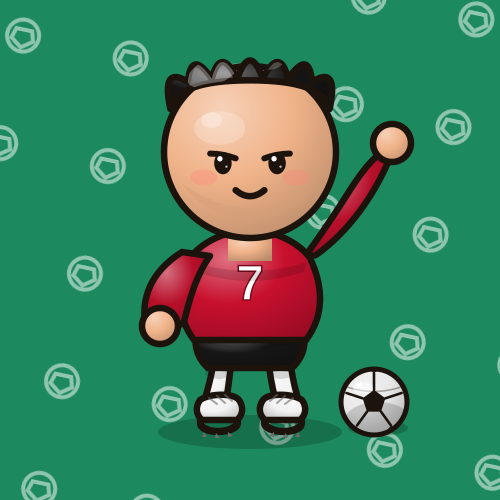
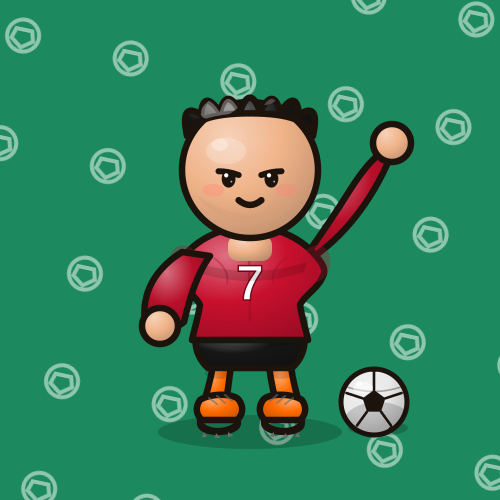
Smaller head, athletic torso taper, bright boot colors
Head radius down further (86 -> 68) via the same scale-transform
approach. Torso rebuilt with a shoulder-chest-waist-hem taper (wider
shoulders, pulled-in waist, slight hem flare) plus subtle deltoid
shading and center/pec lines for definition, instead of a straight-sided
blob. Boots switched to a bright example color to confirm the
fixed-light-sole design contrasts well against vivid uppers, not just
dark ones.

Claude-Session: https://claude.ai/code/session_01Wjr7xw4tsDooQQs84PxUTw

diff --git a/nft-collection/chibi-spin/character.js b/nft-collection/chibi-spin/character.js
@@ -16,8 +16,8 @@ const HEAD_CY = 142;
 const HEAD_R = 108;
 
 // Final on-body placement: smaller radius, sitting right on the collar.
-const HEAD_FINAL_R = 86;
-const HEAD_FINAL_CY = 152;
+const HEAD_FINAL_R = 68;
+const HEAD_FINAL_CY = 170;
 const HEAD_SCALE = HEAD_FINAL_R / HEAD_R;
 const HEAD_TRANSFORM = `translate(${HEAD_CX},${HEAD_FINAL_CY}) scale(${HEAD_SCALE}) translate(${-HEAD_CX},${-HEAD_CY})`;
 // Everything drawn inside HEAD_TRANSFORM (hair/eyes/mouth) is shrunk along with
@@ -278,17 +278,25 @@ function buildCharacterSvgGroup(traits) {
       fill="url(#shortsGrad)" stroke="${OUTLINE}" stroke-width="${OUTLINE_W}" stroke-linejoin="round"/>
     ${contactShadow('M 200 335 Q 250 348 300 335 L 300 342 Q 250 355 200 342 Z')}
 
-    <!-- torso / jersey -->
-    <path d="M 190 258 C 176 288, 176 316, 194 340 L 306 340 C 324 316, 324 288, 310 258
-      C 297 240, 270 230, 250 230 C 230 230, 203 240, 190 258 Z"
+    <!-- torso / jersey: wide shoulders tapering to a waist, flaring back out at the hem -->
+    <path d="M 184 256 C 175 266 174 272 178 278 C 182 288 196 296 200 305
+      C 198 318 194 330 192 340 L 308 340 C 306 330 302 318 300 305
+      C 304 296 318 288 322 278 C 326 272 325 266 316 256
+      C 300 236 272 226 250 226 C 228 226 200 236 184 256 Z"
       fill="url(#jerseyGrad)" stroke="${OUTLINE}" stroke-width="${OUTLINE_W}" stroke-linejoin="round"/>
+    <!-- deltoid + pec shading for an athletic build, not a soft blob -->
+    <ellipse cx="185" cy="264" rx="15" ry="19" fill="${darken(jersey, 0.12)}" opacity="0.3" transform="rotate(-18 185 264)"/>
+    <ellipse cx="315" cy="264" rx="15" ry="19" fill="${darken(jersey, 0.12)}" opacity="0.3" transform="rotate(18 315 264)"/>
+    <path d="M 250 244 C 248 268 250 292 250 322" stroke="${darken(jersey, 0.28)}" stroke-width="2.5" fill="none" opacity="0.4"/>
+    <path d="M 214 258 Q 230 270 227 284" stroke="${darken(jersey, 0.22)}" stroke-width="2" fill="none" opacity="0.35"/>
+    <path d="M 286 258 Q 270 270 273 284" stroke="${darken(jersey, 0.22)}" stroke-width="2" fill="none" opacity="0.35"/>
     <text x="250" y="300" font-family="Arial, sans-serif" font-weight="900" font-size="50" fill="#ffffff" text-anchor="middle" stroke="${darken(jersey, 0.4)}" stroke-width="1.5">${number}</text>
     ${contactShadow('M 193 262 Q 250 280 307 262 L 304 272 Q 250 290 196 272 Z')}
 
     ${frontArm}
 
     <!-- neck -->
-    <rect x="228" y="235" width="44" height="26" fill="url(#skinGrad)"/>
+    <rect x="228" y="235" width="44" height="26" rx="10" fill="url(#skinGrad)"/>
 
     <!-- head (authored large, then scaled down onto the body as one unit) -->
     <g transform="${HEAD_TRANSFORM}">

diff --git a/nft-collection/chibi-spin/generate_one_idle.js b/nft-collection/chibi-spin/generate_one_idle.js
@@ -16,7 +16,7 @@ async function main() {
     skin: '#f0b389',
     jersey: '#c8102e',
     shorts: '#161616',
-    boots: '#f2f2f2',
+    boots: '#ff6a00',
     hair: 'spiky',
     hairColor: '#151515',
     eyes: 'determined',
